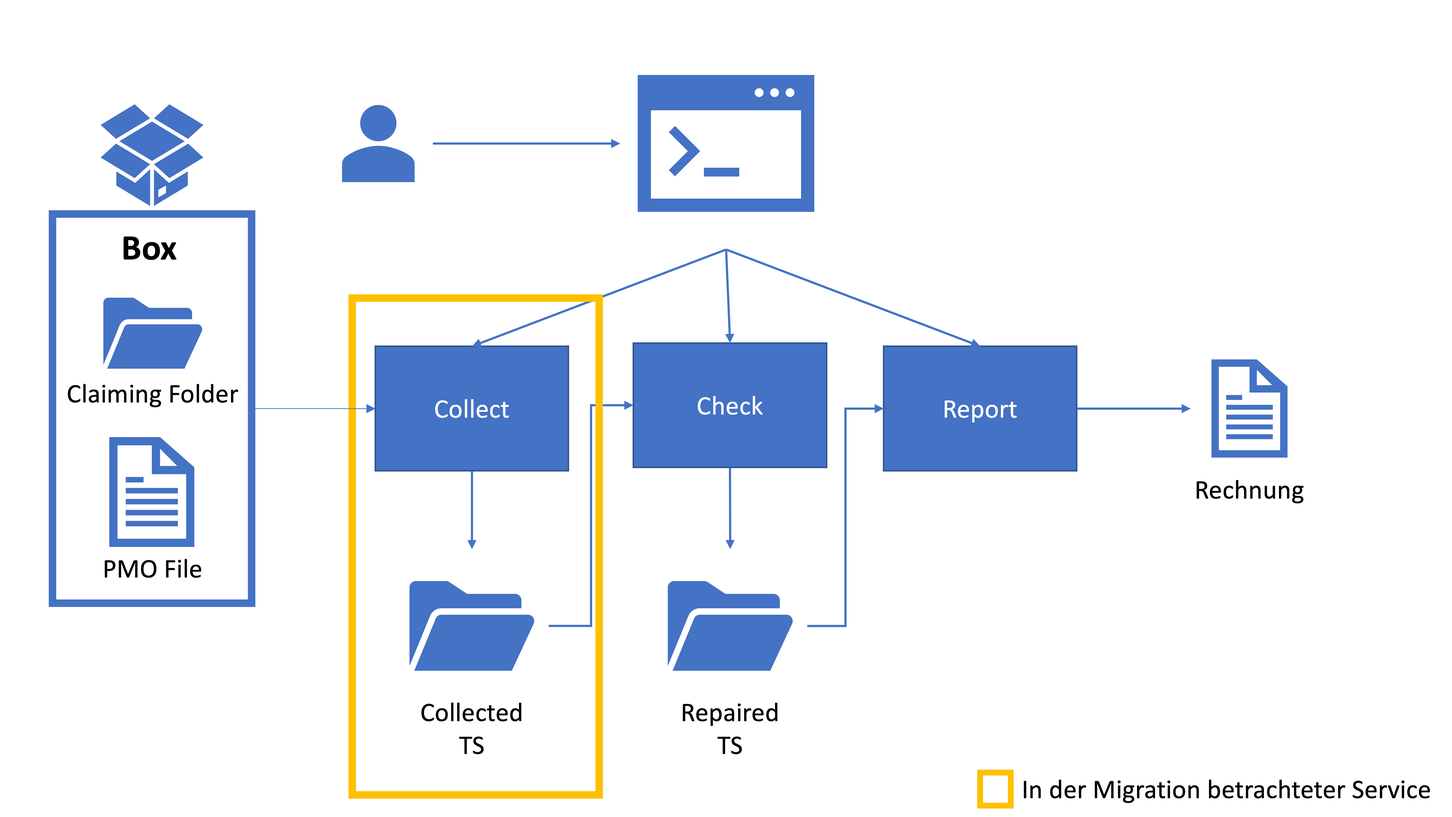
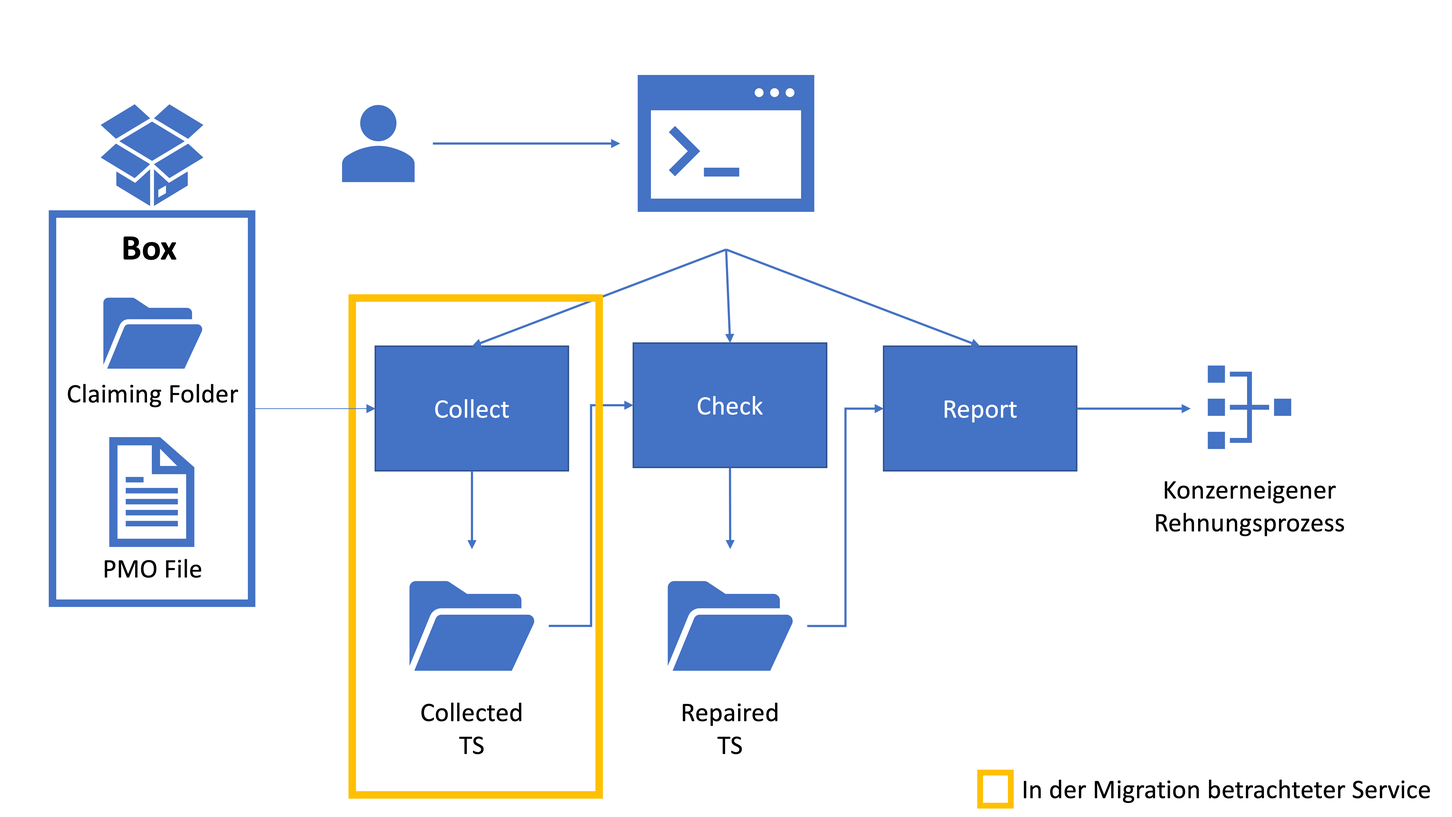
2022-08-22 18:49 zwischenspeichern fähri gud progress

Changed region(s): [[0.8125, 0.4344, 0.9062, 0.5585], [0.7812, 0.5895, 0.9375, 0.6516]]

diff --git a/content/04_praktisch/01-02_use-case-analyse.tex b/content/04_praktisch/01-02_use-case-analyse.tex
@@ -1,26 +1,26 @@
 \section{Use-Case Modellierung für funktionale Anforderungen}
 \label{sec:use-case-modellierung}
 
-Nachfolgend wird die ursprüngliche Anwendung funktional Beschrieben, um daraus die Qualitätsanforderungen für die Migrierte Anwendung abzuleiten. Durch das Testen auf die Qualitätsanforderungen soll untersucht werden, ob sich eine Veränderung im Nutzungsverhalten bei der Migration in die Cloud ergibt.
+Nachfolgend wird die ursprüngliche Anwendung funktional Beschrieben, um daraus die Qualitätsanforderungen für die migrierte Anwendung abzuleiten. Durch das Testen auf die Qualitätsanforderungen soll untersucht werden, ob sich eine Veränderung im Nutzungsverhalten bei der Migration in die Cloud ergibt und ob das Migrationsziel erreicht wurde.
 
 \subsection{Funktionale Beschreibung der bisherigen Anwendung}
-Die Funktionalität der bisherigen Anwendung besteht darin, den Prozess der Rechnungsstellung zu automatisieren und somit management Aufwände zu reduzieren. Dazu besteht die Anwendung hauptsächlich aus drei Services, dem \textit{Collect Service}, dem \textit{Check Service} und dem dem \textit{Report Service}. Ausgeführt wird die Anwendung bisher auf einem lokalen System und greift über das lokale Verzeichnis mithilfe einer \gls{Box}-Integration auf diese zu. Zur Ausführung der Anwendung wird eine Konfigurationsdatei benötigt, die alle notwendigen Pfade und Parameter enthält. In dem \gls{Box}-Verzeichnis liegen die \textit{\glspl{Timesheet}} der Mitarbeiter des Projektes und eine Projektmanagementdatei (PMO-File), die allgemeine Informationen zum Projekt und den Mitarbeitern enthält.
+Die Funktionalität der bisherigen Anwendung besteht darin, den Prozess der Rechnungsstellung zu automatisieren und somit management Aufwände zu reduzieren. Dazu besteht die Anwendung hauptsächlich aus drei Services, dem \textit{Collect Service}, dem \textit{Check Service} und dem dem \textit{Report Service}. Ausgeführt wird die Anwendung bisher auf einem lokalen System und greift über das lokale Verzeichnis mithilfe einer \gls{Box}-Integration auf diese zu. Zur Ausführung der Anwendung wird eine Konfigurationsdatei benötigt, die alle notwendigen Pfade und Parameter enthält. In dem \gls{Box}-Verzeichnis liegen die \textit{\glspl{Timesheet}} der Mitarbeiter des Projektes und eine Projektmanagementdatei (PMO-File), die projektspezifische Informationen zum Projekt und den Mitarbeitern enthält.
 
-Aufgabe des \textit{Collect Service} ist es, aus dem PMO-File oder einer alternativen Mitarbeiterliste alle, aktuell in dem Projekt aktiven Mitarbeiter zu ermitteln und die \textit{\glspl{Timesheet}} dieser in ein \textit{Collect}-Verzeichnis zu kopieren. Der \textit{Check Service} gleicht die von den Mitarbeitern manuell ausgefüllten \textit{\glspl{Timesheet}} mit den Daten aus einem Zeiterfassungstool und ermittelt, ob die Daten korrekt sind oder gegebenenfalls korrigiert werden müssen. Abschließend werden im \textit{Report Service} aus den Daten die Rechnungen für den Kunden erstellt, indem die Informationen aus den \textit{\glspl{Timesheet}} detailliert auf die einzelnen Teilprojekten aufgeteilt und abgerechnet werden.
+Aufgabe des \textit{Collect Service} ist es, aus dem PMO-File oder einer alternativen Mitarbeiterliste alle, aktuell in dem Projekt aktiven Mitarbeiter zu ermitteln und die \textit{\glspl{Timesheet}} dieser in ein \textit{Collect}-Verzeichnis zu kopieren. Der \textit{Check Service} gleicht die von den Mitarbeitern manuell ausgefüllten \textit{\glspl{Timesheet}} mit den Daten aus einem Zeiterfassungstool ab und ermittelt, ob die Daten korrekt sind oder korrigiert diese automatisiert, sofern eine automatische Korrektur möglich ist. Abschließend werden im \textit{Report Service} aus Rechnungsdaten (Rechnungssumme, Leistungstext und Leistungsnachweise) für den konzerneigenen Rechnungsprozess ermittelt, erstellt und in einem Zielordner bereitgestellt. Da der Rechnungsprozess auf Einzelaufträgen basiert, wird die Information aus den \textit{\glspl{Timesheet}} detailliert auf die einzelnen Teilprojekten aufgeteilt.
 
-In dieser Arbeit soll untersucht werden, ob sich eine Veränderung im Nutzungsverhalten bei der Migration in die Cloud ergibt und ob die Business-Logik entsprechend angepasst werden muss. \pagebreak
+In dieser Arbeit soll untersucht werden, ob sich eine Veränderung im Nutzungsverhalten durch die Migration in die Cloud ergibt und ob die Business-Logik entsprechend angepasst werden muss. \pagebreak
 
 \subsection{Wie könnte ein Cloud Setup Aussehen?}
 Durch die Migration in die Cloud ergeben sich viele Möglichkeiten für die Anwendung. Unter anderem bringt die Cloud-Migration \textit{\gls{Multi-Tenancy}}, also eine Mehrbenutzerfähigkeit mit sich, damit die Anwendung von mehreren Nutzern gleichzeitig verwendet werden kann, ohne dass diese sich beeinflussen oder behindern.
 
 Um die Anwendung allgemein in die Cloud zu migrieren, könnte diese so wie sie ist mit \textit{Lift-and-Shift} in eine virtuelle Maschine Kopiert werden und würde somit in der Cloud bereitgestellt. Dadurch könnte jedoch keine Aussage darüber getroffen werden, inwiefern die Anwendung oder ihre Architektur verändert werden muss, um die Vorteile einer Cloud-nativen Anwendung in der Cloud auszunutzen.
 
-Aus diesem Grund soll die Anwendung zu einer Web-Anwendung weiterentwickelt werden. Dadurch verändert sich die Art und Weise, wie die Use-Cases Ausgeführt werden und wie die Anwendung benutzt wird. Diese Veränderungen werden am Beispiel der Migration des \textit{Collect Service} untersucht.
+Aus diesem Grund soll die Anwendung zu einer Web-Anwendung weiterentwickelt werden. Dadurch verändert sich die Art und Weise, wie die Use-Cases ausgeführt und angestoßen werden und wie die Anwendung benutzt wird. Diese Veränderungen werden am Beispiel der Migration des \textit{Collect Service} untersucht.
 
 \subsection{Collect Service}
 \textbf{Bisherige Verwendung:}
 
-Der für den Prototypen ausgewählte Use-Case ist das ''Einsammeln'' der \textit{\glspl{Timesheet}}. Aus einer Konfigurationsdatei hinaus soll festgelegt werden für welches Projekt und welchen Zeitraum diese von dem Projektverzeichnis in ein temporäres Verzeichnis kopiert werden sollen. 
+Der für den Prototypen ausgewählte Use-Case ist das ''Einsammeln'' der \textit{\glspl{Timesheet}}. Aus einer Konfigurationsdatei heraus soll festgelegt werden, für welches Projekt und welchen Zeitraum diese von dem Projektverzeichnis in ein temporäres Verzeichnis kopiert werden sollen. 
 
 \textbf{Möglichkeiten einer Web-Anwendung:}
 
@@ -58,11 +58,11 @@ Abbildung \ref{fig:use-case-diagram} stellt grafisch dar, welche Aufgaben der \t
         \multicolumn{2}{|l|}{Siehe Normalverlauf} \\
         \multicolumn{2}{|l|}{\textbf{Qualitätsanforderungen}} \\
         \hline
-        \multicolumn{2}{|l|}{1. Für jeden aktiven Mitarbeiter soll ein \textit{\gls{Timesheet}}im temporären Ordner liegen} \\
+        \multicolumn{2}{|l|}{1. Für jeden aktiven Mitarbeiter soll ein \textit{\gls{Timesheet}} im temporären Ordner liegen} \\
         \multicolumn{2}{|l|}{2. Die \textit{\glspl{Timesheet}} sollen unverändert sein (Dateiname, Inhalt)} \\
-        \multicolumn{2}{|l|}{3. Eigener Zielordner pro Monat zur Vermiedung von Vermischungen} \\
+        \multicolumn{2}{|l|}{3. Eigener Zielordner pro Monat zur Vermeidung von Vermischungen} \\
         \multicolumn{2}{|l|}{4. Die \textit{\gls{Timesheet}} Größe kann variieren -> keine Limitierungen} \\
-        \multicolumn{2}{|l|}{5. Es darf keine Kompression mit Formatänderung eingesetz werden} \\
+        \multicolumn{2}{|l|}{5. Es darf keine Kompression mit Formatänderung eingesetzt werden} \\
         \multicolumn{2}{|l|}{6. Ein Logfile soll Erfolg und Misserfolg von Kopiervorgängen enthalten} \\
         \multicolumn{2}{|l|}{7. Fehlersituationen auf einzelnen Dateien dürfen den Ablauf nicht unterbrechen} \\
         \multicolumn{2}{|l|}{8. Root-Verzeichnisse für Ziel und Quelle müssen konfigurierbar sein} \\
@@ -72,4 +72,4 @@ Abbildung \ref{fig:use-case-diagram} stellt grafisch dar, welche Aufgaben der \t
     \label{tab:use-case-analyse-timesheets}
 \end{table}
 
-Anschließend an diesen Prozess würden die weiteren Services der Toolsuite folgen, die für den Umfang dieser Arbeit ausgelassen wurden.
+Anschließend an diesen Prozess würden die weiteren Services der Gesamtanwendung folgen, die für den Umfang dieser Arbeit ausgelassen wurden.

diff --git a/content/04_praktisch/01-01_anforderungsanalyse.tex b/content/04_praktisch/01-01_anforderungsanalyse.tex
@@ -1,4 +1,4 @@
-\section{Anforderungsanalyse}
+\section{Analyse der nicht-funktionalen Anforderungen}
 \label{sec:anforderungsanalyse}
 
 % Merkmale Cloud Native Anwendungen
@@ -18,23 +18,27 @@ Wird eine Anwendung in die Cloud migriert werden unter anderem folgende Vorteile
 
 Die finanziellen Aspekte, wie die Kostensenkung und -vermeidung werden in dieser Arbeit nicht weitergehend behandelt, genauso wie die operative Belastbarkeit.
 
-Darüber hinaus muss vor der Migration untersucht und festgelegt werden, welche der in Kapitel \ref{sec:migrationsansaetze} herausgearbeiteten Migrationsstrategien verfolgt werden soll \cite[Vgl.][10:38-13:23min]{AWS2019}. Jede dieser Strategien bietet ihre Vor- und Nachteile, weshalb diese Entscheidung individuell von der Anwendungsarchitektur und der Art der Benutzung abhängig ist. \pagebreak
+Hiermit verbunden muss vor der Migration untersucht und festgelegt werden, welche der in Kapitel \ref{sec:migrationsansaetze} herausgearbeiteten Migrationsstrategien verfolgt werden soll \cite[Vgl.][10:38-13:23min]{AWS2019}. Jede dieser Strategien bietet ihre Vor- und Nachteile, weshalb diese Entscheidung individuell von der Anwendungsarchitektur und der Art der Benutzung abhängig ist. \pagebreak
 
 Grundlegend kann der Migrationsprozess  in vier Schritte zusammengefasst werden \cite[Vgl. auch im Folgenden][S. 34f]{Maenhaut2016}:
 \begin{enumerate}
 \item \textbf{Auswahl der Komponenten:} Die Auswahl der zu migrierenden Komponenten sollte als erster Schritt vorgenommen werden. Wird die ganze Anwendung migriert ist dieser entsprechend einfach. Zu beachten ist hier vorallem die Kommunikation zwischen den Komponenten und damit verbundenen Sicherheitsanforderungen.
 \item \textbf{Feststellen kompatibler Cloud Provider:} Verschiedene Provider bieten verschiedene Möglichkeiten und haben unterschiedliche limitierende Faktoren. Somit sollte ein Provider gefunden werden, der alle gewünschten Features abdecken kann.
-\item \textbf{Einfluss auf das Client Netzwerk untersuchen:} Da die Kommunikation zwischen einzelnen Komponenten ins Internet verlagert wird, muss möglicher Weise die Bandbreite des Client Netzwerks angehoben werden.
+\item \textbf{Einfluss auf den Client untersuchen:} Da die Kommunikation zwischen einzelnen Komponenten ins Internet verlagert wird, muss möglicher Weise die Bandbreite des Client Netzwerks angehoben werden.
 \item \textbf{Skalierung der Anwendung:} Einer der Vorteile des Cloud Computing ist die Skalierbarkeit, also die Fähigkeit, bei großer Last weitere Instanzen einer Anwendung zu starten. Um diese Skalierbarkeit bereitstellen zu können müssen die Komponenten lokalisiert werden, die entsprechend angepasst werden müssten.
 \end{enumerate}
 
 % Thema Sicherheit ?!
 
-Bei dem in dieser Arbeit untersuchten Prototypen werden alle Komponenten des Collect Service migriert, weshalb keine speziellen Komponenten ausgewählt werden müssen oder die Kommunikation zwischen diesen geprüft werden muss. Somit ist der erste Schritt recht einfach abzuschließen. Die Auswahl eines Passenden Providers wird im weiteren Verlauf dieser Arbeit beschrieben. Einen Einfluss auf das Client Netzwerk wird der Prototyp nicht haben, es sollte lediglich hinsichtlich der Auswahl des Cloud Providers darauf geachtet werden, dass die Netzwerkanbindung ausreicht um zum Beispiel das Projektmanagement-File zuverlässig herunterzuladen. \pagebreak
+Bei dem in dieser Arbeit untersuchten Prototypen werden alle Komponenten des Services migriert, weshalb die Auswahl spezieller Komponenten und das Überprüfen der Kommunikation zwischen diesen entfällt. Somit ist der erste Schritt recht einfach abzuschließen. Die Auswahl eines Passenden Providers wird im weiteren Verlauf dieser Arbeit beschrieben. Die Auswirkungen auf den Client werden an dem vorliegenden Prototypen nicht näher untersucht werden, da dies nicht in den Fokus der Forschungsfrage fällt \pagebreak
 
-Zudem ist zu untersuchen, ob eine Public, Hybrid oder Private Cloud verwendet werden kann. Für den Prototypen ist der Einsatz einer Public Cloud Infrastruktur unproblematisch, da hier nur Testdatensätze verwendet werden. Würden die realen Daten verwendet, so müsste auf eine Private Cloud umgestellt werden, da die \textit{\glspl{Timesheet}} personenbezogene Daten enthalten und unternehmenskritische Daten wie Informationen über das Budget und Gewinn/Verlust im PMO-File enthalten sind.
+Da der Prototyp fürs erste in einer Public Cloud Umgebung bereitgestellt werden soll, müssen die Sicherheitsanforderungen hinsichtlich der personenbezogenen und unternehmenskritische Daten, die von der Anwendung verarbeitet werden, erfüllt werden. Bei diesen handelt es sich um Dateien, die dokumentieren, wie viel Zeit ein Mitarbeiter für bestimmte Aufgaben benötigt hat und Informationen über das Budget und Gewinn/Verlust in einem Projektmanagement-File.
 
-Darüber hinaus sollen auch die nicht-funktionalen Anforderungen einer Cloud-nativen Anwendung umgesetzt werden. Dazu gehören in diesem Fall die Mehrbenutzerfähigkeit, Skalierbarkeit und Fehlertoleranz der Anwendung. Um die Agilität in der Entwicklung zu steigern soll außerdem eine CI/CD Pipeline eingesetzt werden, die die Aktualisierung der Anwendung automatisiert. Diese schnelle Bereitstellung von Updates is in dem aktuellen Setup deutlich komplizierter, wenn die Anwendung von anderen Anwendern außer dem Urheber dieser verwendet wird.
+Zu den Sicherheitsanforderungen gehören, wie in Kapitel \ref{sec:herausforderungen} bereits beleuchtet, unter anderem Authentifizierung und Zugangsbeschränkungen \cite[Vgl.][S. 695]{Kumar2018}, der Ort (sowohl physisch als auch logisch), an welchem die Daten verarbeitet und gespeichert werden \cite[Vgl.][S. 696]{Kumar2018} und die Sicherheit der (personenbezogenen) Daten \cite[Vgl.][S. 696]{Kumar2018}. Es ist jedoch zu beachten, dass für den Prototypen nur Testdatensätze eingesetzt werden, weshalb der Fokus hier noch nicht vollständig auf der Einhaltung dieser Anforderungen liegt.
+
+% Zudem ist zu untersuchen, ob eine Public, Hybrid oder Private Cloud verwendet werden kann. Für den Prototypen wäre der Einsatz einer Public Cloud Infrastruktur unproblematisch, da hier nur Testdatensätze verwendet werden. Würden die realen Daten verwendet, so müsste auf eine Private Cloud umgestellt werden, da die in der untersuchten Anwendung verwendeten Dateien personenbezogene Daten enthalten und unternehmenskritische Daten wie Informationen über das Budget und Gewinn/Verlust in einem Projektmanagement-File enthalten sind.
+
+Darüber hinaus sollen vorallem auch die nachfolgend genannten nicht-funktionalen Anforderungen einer Cloud-nativen Anwendung umgesetzt werden. Dazu gehören in diesem Fall die \textbf{Mehrbenutzerfähigkeit}, die zuvor bereits erwähnte\textbf{Skalierbarkeit} und \textbf{Fehlertoleranz} der Anwendung. Um die \textbf{Agilität} in der Entwicklung zu steigern soll außerdem eine CI/CD Pipeline eingesetzt werden, die die Aktualisierung der Anwendung automatisiert. Diese schnelle Bereitstellung von Updates ist in dem aktuellen Setup deutlich komplizierter, wenn die Anwendung von anderen Anwendern außer dem Entwickler dieser verwendet wird.
 
 % Für die \textbf{Skalierbarkeit} der untersuchten Anwendung kann wie in Kapitel \ref{sec:cloud-native-anwendungen} beschriebene vertikale oder horizontale Skalierung eingesetzt werden. Bei der für diesen Fall gewählten horizontalen Skalierung werden im Lastfall weitere Container mit derselben Anwendung gestartet. Die \textbf{Mehrbenutzerfähigkeit} kann in diesem Fall ebenfalls durch die horizontale Skalierung gewährleistet werden, da jeder Container die Anwendung für einen Benutzer zur Verfügung stellen kann.
 \pagebreak

diff --git a/content/05_evaluation-schlussbetrachtung/02_eval.tex b/content/05_evaluation-schlussbetrachtung/02_eval.tex
@@ -1,11 +1,44 @@
 \chapter{Evaluation}
-\textbf{(To be specified)}
 % Ergebinsse der Untersuchung
+Im nachfolgenden Kapitel werden neben der Untersuchung auf Erfüllung der in Kapitel \ref{sec:anforderungsanalyse} erarbeiteten Anforderungen auch die Vor- und Nachteile, die in dieser Arbeit aufgekommen sind aufgezeigt.
 
 \section{Ergebnisse der Untersuchung}
-\subsection{Beurteilung der technischen Realisierung}
-\subsection{Untersuchung der nicht-funktionalen Anforderungen}
+In Kapitel \ref{chap:untersuchung} wurde beschrieben, wie die Anwendung auf Erfüllung der Anforderungen untersucht wird. Nachfolgend werden die Ergebnisse der Untersuchung aufgezeigt.
 
+\subsection{Beurteilung der technischen Realisierung}
+Das Durchlaufen der einzelnen Testfälle hat ergeben, dass nicht alle der funktionalen Anforderungen im Prototypen bereits vollständig realisiert wurden.
+
+Die ersten zwei Anforderungen werden vollumfänglich erfüllt. Die Anzahl aktiver Mitarbeiter lässt sich variieren und es werden auch nur die entsprechend relevantem \textit{\glspl{Timesheet}} in das neue Verzeichnis kopiert. auch wird an dem Dateinamen nichts verändert. Dazu wurde eine Methode geschrieben, die die Dateinamen der kopierten Dateien entsprechend der Vorgaben setzt. Auch der Monat ist bereits anpassbar, jedoch in der aktuellen Anwendungsversion noch als Variable im Code und nicht in der Konfigurationsdatei selbst. Das anzupassen sollte jedoch kein großer Aufwand sein.
+
+Auch der Test mit einem besonders großen \gls{Timesheet} war erfolgreich, genauso wie bei manueller Überprüfung keine Verlusten innerhalb der Dateien festgestellt werden konnten.
+
+Das von \gls{Spring Boot} bereitgestellte Logging deckt nicht die gewünschten Anforderungen ab. An dieser Stelle muss der Code manuell angepasst werden und weiteres Logging in den zutreffenden Funktionen implementiert werden. Genauso wird die Anwendung in ihrer aktuellen Version bei einem Fehler sofort beendet und ist noch nicht in der Lage das Kopieren fehlerhafter \textit{\glspl{Timesheet}} zu überspringen. \pagebreak
+
+Eine Anpassung der Rootverzeichnisses dagegen ist jedoch ohne Probleme möglich, solange die in dem Verzeichnis befindliche Ordnerstruktur den Vorgaben entspricht.
+
+Damit ist ein großer Teil der funktionalen Anforderungen bereits in diesem Prototypen erfüllt, das korrekte Logging und Fehlerhandling sind jedoch für eine zukünftige Anwendungsversion unumgänglich.
+
+\subsection{Untersuchung der nicht-funktionalen Anforderungen}
+\textbf{Skalierbarkeit:}
+
+Der vorliegende Prototyp ist durch die von \ac{ECS} bereitgestellten Funktionalitäten horizontal Skalierbar. Es können zu jedem Zeitpunkt weitere Container gestartet werden, um die Anwendung zu skalieren. Genauso werden diese bei Inaktivität wieder entfernt.
+
+\textbf{Fehlertoleranz:}
+
+Die Fehlertoleranz der Anwendung wird in \ac{ECS} ebenfalls gewährleistet. Stürzt ein Container ab oder wird unerwartet beendet, wird automatisch ein neuer Container gestartet um den Workload abzufangen.
+
+\textbf{Schnelle Bereitstellung:}
+
+Durch den Einsatz von \textit{CodePipeline} kann jede Anwendungsaktualisierung nahezu in Echtzeit bereitgestellt werden. Wird der Anwendungscode aktualisiert (es reicht zum Testen das hinzufügen eines Kommentars), startet automatisch ein neues Deployment und die Anwendung wird aktualisiert.
+
+\textbf{Mehrbenutzerfähigkeit:}
+
+Die Mehrbenutzerfähigkeit der Anwendung ist bereits in \gls{Spring Boot} gegeben, da in \gls{Spring Boot}-Anwendungen standardmäßig mehrere Personen auf eine Anwendungsinstanz zugreifen können. \pagebreak
+
+\textbf{Sicherheit:}
+
+Die Sicherheitsanforderungen an die Anwendung werden trotz aktuell verwendeter Testdatensätze bereits umgesetzt oder sind nachträglich leicht umsetzbar. Die Cloud Infrastruktur ist in einem \ac{VPC} mit privatem Subnetz implementiert, welches in sich geschlossen ist. Das API-Gateway ermöglicht zudem zusätzliche Authentifizierungsmöglichkeiten, die jedoch für den Test des Prototypen deaktiviert wurden. Darüber hinaus können auch in \gls{Spring Boot} Module zur Prüfung von Nutzerberechtigungen mithilfe von zum Beispiel Token eingesetzt werden. Damit sind die in der Private Cloud möglichen Sicherheitsstandards umgesetzt. Bei der Sensibilität der realen Anwendungsdaten ist jedoch zu untersuchen, ob diese als ausreichend erachtet werden.
+\pagebreak
 
 \section{Vor- und Nachteile der Cloud Migration}
 Wie einleitend in dieser Arbeit aufgezeigt, nutzen immer mehr Unternehmen das Cloud Computing in den verschiedensten Unternehmensbereichen. Nachfolgend soll bewertet werden, in welcher Form sich Vor- und Nachteile aus der in dieser Arbeit untersuchten Migration ergeben haben und wie diese sich auf das Gesamtbild der Cloud Migration übertragen lassen.
@@ -15,8 +48,7 @@ Aus der beispielhaften Migration des \textit{Collect Service} in die Cloud ergeb
 
 In der Cloud bereitgestellt ist der Service fortan rund um die Uhr verfügbar und unabhängig von der ausführenden Maschine. Es ist nicht mehr notwendig die Anwendung auf einem lokalen Rechner zu installieren (oder einen Rechner zu verwenden, wo diese bereits installiert ist) und jeder Benutzer kann diese nun über eine \ac{API} erreichen.
 
-Updates der Anwendung werden automatisiert über die \ac{CI/CD}-Pipeline deployed und müssen nicht mehr manuell durchgeführt werden. Damit entfällt der Aufwand, vor jeder Nutzung die Aktualität der Anwendung zu überprüfen für alle Anwender.
-\pagebreak
+Updates der Anwendung werden automatisiert über die \ac{CI/CD}-Pipeline deployed und müssen nicht mehr manuell durchgeführt werden. Damit entfällt der Aufwand, vor jeder Nutzung die Aktualität der Anwendung zu überprüfen für alle Anwender. \pagebreak
 
 \subsection{Nachteile}
 Neben den positiven Aspekten die bei der Migration in die Cloud aufgekommen sind, haben sich auch einige Nachteile ergeben:

diff --git a/content/04_praktisch/02-01_konzeptentwurf.tex b/content/04_praktisch/02-01_konzeptentwurf.tex
@@ -16,7 +16,7 @@ Die bisher existierende Anwendung ist eine Python Anwendung, die grundsätzlich 
 \begin{itemize}
 \item \textbf{Timesheet Collector: }Einsammeln der \textit{\glspl{Timesheet}}, der in dem Projekt aktiven Mitarbeiter
 \item \textbf{Timesheet Checker: }Überprüfen der \textit{\glspl{Timesheet}} auf Korrektheit und Vollständigkeit und gegebenenfalls Reparatur dieser
-\item \textbf{Report Creator: }Erzeugung eines Reports, Zusammenfassung der \textit{reporteten} Stunden und Verteilung dieser auf die unterschiedlichen Beauftragungen, Erstellung von Nachweisdokumenten und automatisierte Rechnungsstellung
+\item \textbf{Report Creator: }Erzeugung eines Reports, Zusammenfassung der dokumentierten Stunden und Verteilung dieser auf die unterschiedlichen Beauftragungen, Erstellung von Nachweisdokumenten für die Konzerneigene Rechnungsstellung
 \end{itemize}
 
 Jeder dieser drei Services ist ein eigenes Python Modul. Diese greifen jeweils auf weitere Services wie einen Excel-Helper und Checking-Tools zurück.
@@ -33,7 +33,7 @@ Außerdem enthalten die PMO-Tools ein Skript, welches den Umgang mit Excel Sprea
 
 Den ''Hauptservice'' der Anwendung soll der \textit{\gls{Timesheet}}-Service bilden. Dieser soll alle Funktionen bereitstellen, die unter Verwendung der anderen Services die letztendlich gewünschte Funktionalität des Einsammeln der \textit{\glspl{Timesheet}} bieten. Darüber hinaus soll dieser für eine Spätere Anwendungsversion auch die anderen Funktionalitäten aus der ursprünglichen Anwendung bereitstellen. In der ursprünglichen Anwendung wurden die Services durch eine Konsoleneingabe im Terminal gestartet. Dies ist so bei der Cloud Anwendung nicht mehr möglich, weshalb die Anwendung zukünftig auch über einen \ac{API}-Endpunkt bereitgestellt wird.
 
-Abbildung \ref{fig:Architektur} zeigt einen groben  Entwurf der Anwendung und wie die Services miteinander kommunizieren sollen. Der \textit{\gls{Timesheet}}Service soll zu einem späteren Zeitpunkt alle Funktionen aus der Ursprünglichen Anwendung bündeln, für den Prototypen wird sich jedoch, wie bereits in der Anforderungsanalyse erwähnt, auf den \textit{Collect Service} beschränkt.
+Abbildung \ref{fig:Architektur} zeigt einen groben  Entwurf der Anwendung und wie die Services miteinander kommunizieren sollen. Der \textit{\gls{Timesheet}} Service soll zu einem späteren Zeitpunkt alle Funktionen aus der Ursprünglichen Anwendung bündeln, für den Prototypen wird sich jedoch, wie bereits in der Anforderungsanalyse erwähnt, auf den \textit{Collect Service} beschränkt.
 
 \begin{figure}[H]
     \centering
@@ -49,7 +49,7 @@ Neben der Erfüllung dieser funktionalen Anforderungen sollen auch die nicht-fun
 % Spring MVC für REST-Anwendung in Springboot enthalten (Teil des Spring-Frameworks)
 Neben der Konzeptionierung einer Anwendungsarchitektur braucht es zur Entwicklung auch eine Programmiersprache und gegebenenfalls ein Framework, um die Anwendung optimal in der Cloud nutzen zu können. 
 
-Im Falle der PMO-Tools wurde ursprünglich Python verwendet, jedoch erschien im Zuge des Refactoring ein Wechsel zu Java und dem \gls{Spring} Framework sinnvoll, da hier mit \gls{Spring Boot} die Cloud-native Entwicklung erleichtert wird. Darüber hinaus gilt \gls{Spring Boot} als populärer Standard für den Einsatz von Microservices und die Bereitstellung einer \ac{API} ist mit \gls{Spring Boot} einfacher umzusetzen, da mit \textit{Spring MVC} bereits ein Web-Framework in \gls{Spring} enthalten ist, zur Bereitstellung von \ac{REST}-Endpunkten.
+Im Falle der PMO-Tools wurde ursprünglich Python verwendet, jedoch erschien im Zuge des Refactoring ein Wechsel zu Java und dem \gls{Spring} Framework sinnvoll, da hier mit \gls{Spring Boot} die Cloud-native Entwicklung erleichtert wird. Darüber hinaus gilt \gls{Spring Boot} als populärer Standard für den Einsatz von Microservices und die Bereitstellung einer \ac{REST}-\ac{API} ist mit \gls{Spring Boot} einfacher umzusetzen, da mit \textit{Spring MVC} bereits ein Web-Framework in \gls{Spring} enthalten ist, zur Bereitstellung von \ac{REST}-Endpunkten.
 
 \subsection{Auswahl eines Cloud Providers}
 Ein für die Cloud Migration unerlässlicher Schritt ist die Auswahl eines zu den Anforderungen passenden Cloud Providers. In diesem Fall wurde \ac{AWS} als einer der größten Provider \cite[Vgl.][S. 6]{Sustar2022} gewählt, da hier mit \ac{ECS} und \gls{Fargate} gute Cloud native Möglichkeiten zum serverless Deployment von Containern zur Verfügung stehen um somit die Vorteile der Cloud optimal nutzen zu können. Darüber hinaus unterstützt \ac{AWS} viele offene Standards, wie zum Beispiel Terraform.

diff --git a/content/02_grundlagen/03_herausforderungen.tex b/content/02_grundlagen/03_herausforderungen.tex
@@ -1,4 +1,5 @@
 \section{Herausforderungen der Cloud Migration}
+\label{sec:herausforderungen}
 
 % Merkmale von Cloud nativen Anwendungen in legacy Applikationen umsetzen
 % Verlass auf Box-API muss gegeben sein
@@ -6,9 +7,25 @@
 
 Cloud Computing birgt jedoch auch einige Herausforderungen, welche in der Entwicklung und Migration komplexe Aufgaben mit sich bringen können.
 
+\subsection{Vorteile der Cloud nutzen}
+
 Neben der steigenden Nutzung von Cloud Computing und der Entwicklung Cloud basierter Anwendungen können auch legacy Anwendungen von Cloud Computing profitieren, woraus sich der Trend abzeichnet, dass auch solche Anwendungen auf eine Cloud Infrastruktur migriert werden, um die Ressourcen dieser nutzen zu können und Kosten zu sparen \cite[Vgl.][S. 31]{Maenhaut2016}.
 
 Abhängig vom gewählten Migrationsansatz sind Änderungen in der Anwendung vorzunehmen, damit die Vorteile der Cloud genutzt werden können. Verbesserung des Anwendungsdesigns und die Optimierung von Ressourcennutzung sind nach Feathers (2004) zwei der vier möglichen Hauptgründe Änderungen an Software vorzunehmen \cite[Vgl.][S. 3]{Feathers2004}. Diese lassen sich auch auf die vorzunehmenden Änderungen für die Cloud Migration übertragen. Die Herausforderung die bei der Änderung von Software aufkommt, ist sicherzustellen, dass das grundlegende Verhalten der Anwendungen nicht verändert wird. Die Schwierigkeit liegt darin, oft nicht genau zu wissen wie Stark das Verhalten verändert wird, wenn Änderungen vorgenommen werden \cite[Vgl.][S. 7]{Feathers2004}. 
 
-Eine weitere Herausforderung bei der Cloud Migration von legacy Anwendungen ist, die Anwendung und den Entwicklungsprozess so zu gestalten, dass mehrere Entwickler gleichzeitig an verschiedenen Funktionen der Anwendung arbeiten können, ohne sich dabei gegenseitig in die Quere zu kommen. Außerdem wird in Zuge der Migration meist erwartet, dass die Vorteile der Cloud, wie zum Beispiel eine effiziente Skalierung der Anwendung, umgesetzt werden, was zusätzlichen Aufwand zur reinen Migration bedeutet \cite[Vgl.][]{Ibryam2021}.
+\subsection{Entwicklung von Cloud-basierten Anwendungen}
+
+Eine weitere Herausforderung bei der Cloud Migration von legacy Anwendungen ist, die Anwendung und den Entwicklungsprozess so zu gestalten, dass mehrere Entwickler gleichzeitig an verschiedenen Funktionen der Anwendung arbeiten können, ohne sich dabei gegenseitig in die Quere zu kommen. Außerdem wird in Zuge der Migration meist erwartet, dass die Vorteile der Cloud, wie zum Beispiel eine effiziente Skalierung der Anwendung, umgesetzt werden, was zusätzlichen Aufwand zur reinen Migration bedeutet \cite[Vgl.][]{Ibryam2021}. \pagebreak
+
+\subsection{Datenschutz und Datensicherheit in der Cloud}
+Personenbezogene und sensible (z.B. geschäftliche) Daten bedürfen einer guten Datensicherheit, vor allem im Kontext des Cloud Computing und dort insbesondere für die Private Cloud, wo Speicherressourcen nicht direkt in den Händen des Anwenders liegen, sondern in den Rechenzentren der Provider verarbeitet und gespeichert werden \cite[Vgl.][S. 1ff]{Sun2019}. Aus diesem Grund ist es wichtig, mögliche Risiken und damit verbundene Herausforderungen zu identifizieren \cite[Vgl.][S. 3]{Sun2019}.
+
+Folgende Risiken können für Datenschutz und Datensicherheit in der Cloud existieren \cite[Vgl. auch im folgenden][S. 3]{Sun2019}:
+
+\begin{itemize}
+    \item Offenlegung personenbezogener Daten und sensitiver Informationen
+    \item Unberechtigtes Lesen, Teilen oder Löschen von Daten
+    \item Unrechtmäßige Verarbeitung personenbezogener Daten
+\end{itemize}
+
 \pagebreak

diff --git a/content/05_evaluation-schlussbetrachtung/01_untersuchung.tex b/content/05_evaluation-schlussbetrachtung/01_untersuchung.tex
@@ -1,4 +1,5 @@
 \chapter{Untersuchung}
+\label{chap:untersuchung}
 % NUR beschreiben wie und was untersucht wird, Ergebnis in Kapitel Evaluation
 
 \section{Beurteilung der technischen Realisierung}
@@ -42,15 +43,20 @@ Neben den technischen und funktionalen Anforderungen haben sich auch nicht-funkt
 
 \textbf{Skalierbarkeit:}
 
-Von der Anwendung wird erwartet, dass diese Skalierbar ist, um zum Beispiel mehr Container zu starten, wenn notwendig und diese aber auch wieder zu stoppen, wenn sie nicht mehr benötigt werden.
+Von der Anwendung wird erwartet, dass diese Skalierbar ist, um zum Beispiel mehr Container zu starten, wenn notwendig und diese aber auch wieder zu stoppen, wenn sie nicht mehr benötigt werden. Zum Testen der Skalierbarkeit, wird künstlich ein Workload erzeugt, der das Starten eines weiteren Containers erfordert.
 
 \textbf{Fehlertoleranz:}
 
-Außerdem soll mit der Fehlertoleranz zm Beispiel der Fall abgedeckt sein, dass ein abgestürzter oder fehlerhafter Container durch einen neuen, weiteren Container ersetzt werden kann, damit die Anwendung jederzeit zur Verfügung steht.
+Außerdem soll mit der Fehlertoleranz zm Beispiel der Fall abgedeckt sein, dass ein abgestürzter oder fehlerhafter Container durch einen neuen, weiteren Container ersetzt werden kann, damit die Anwendung jederzeit zur Verfügung steht. Um diese untersuchen zu können, werden gezielt Container beendet oder zum Absturz gebracht, um dann zu sehen, wie der Containerservice damit umgeht.
 
 \textbf{Schnelle Bereitstellung:}
 
-Wird der Anwendungscode aktualisiert, sei es eine Optimierung oder eine neue Version der Anwendung, so soll diese schnellstmöglich bereitgestellt werden und nicht auf ein Updatefenster oder ähnliches warten müssen.
+Wird der Anwendungscode aktualisiert, sei es eine Optimierung oder eine neue Version der Anwendung, so soll diese schnellstmöglich bereitgestellt werden und nicht auf ein Updatefenster oder ähnliches warten müssen. Diese Anforderung kann durch eine Änderung im Anwendungscode untersucht werden.
 
-\dots
-\pagebreak
+\textbf{Mehrbenutzerfähigkeit:}
+
+Mit dem Ziel die Anwendung für mehr Personen innerhalb des Projekts, als auch anderen Projekten zur Verfügung zu stellen, muss im Cloud-Betrieb die Möglichkeit gegeben sein, dass mehrere Nutzer gleichzeitig mit der Anwendung arbeiten können, ohne sich dabei gegenseitig in die Quere zu kommen. Um auch die Mehrbenutzerfähigkeit zu testen, werden gleichzeitig von verschiedenen Geräten Anfragen an die Anwendung gesendet.
+
+\textbf{Sicherheit:}
+
+Zudem soll untersucht werden, wie die in Kapitel \ref{sec:anforderungsanalyse} herausgearbeiteten Anforderungen an die Sicherheit und den Schutz personenbezogener und unternehmenskritischer Daten eingehalten werden. Dazu soll zum einen die Cloud Infrastruktur der Anwendung untersucht werden, als auch die Anwendung selbst. \pagebreak

diff --git a/ads/glossary.tex b/ads/glossary.tex
@@ -20,4 +20,4 @@
 \newglossaryentry{Fargate}{name={Fargate},description={\dots}}
 \newglossaryentry{CodePipeline}{name={CodePipeline},description={\dots}}
 \newglossaryentry{Multi-Tenancy}{name={Multi-Tenancy},description={\dots}}
-\newglossaryentry{Timesheet}{name={Timesheet},description={\dots},plural={Timesheets}}
+\newglossaryentry{Timesheet}{name={Timesheet},description={Arbeitsnachweis in form einer Exceldatei, in der Mitarbeiter ihre Tätigkeit und die benötigte Zeitdauer bezogen auf einen Kundenauftrag für den jeweiligen Tag erfassen.},plural={Timesheets}}
